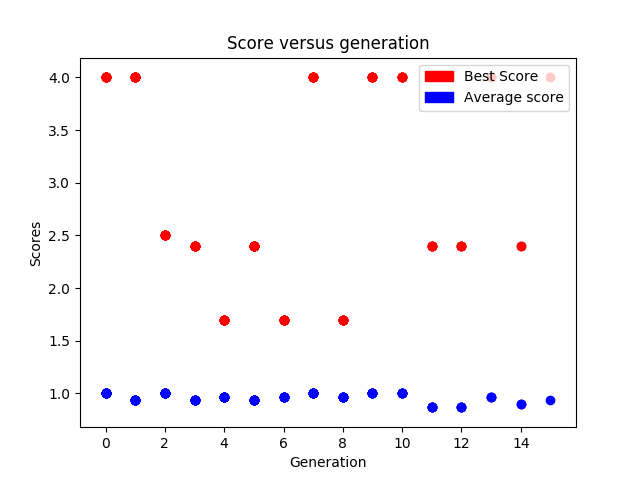
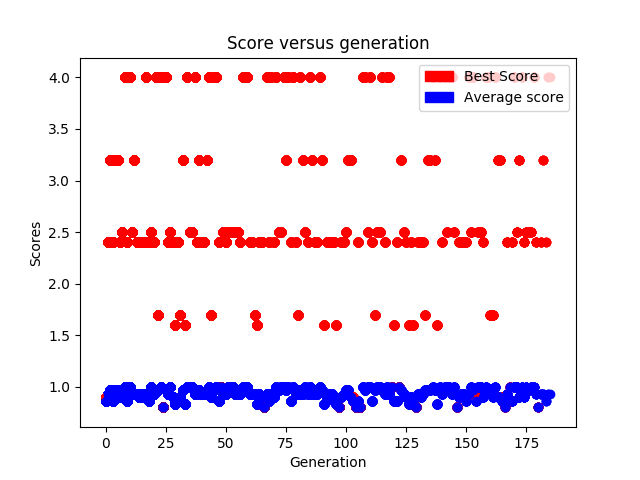
params

diff --git a/v2.0/train.py b/v2.0/train.py
@@ -39,7 +39,7 @@ plt.ylabel("Scores")
 
 # these hyperparameters could stand to be tuned
 # Note: you play every oponent twice
-POPULATION_SIZE = 3
+POPULATION_SIZE = 25
 NUM_GENERATIONS = 1000
 
 MUTATE_RATE = 0.3
